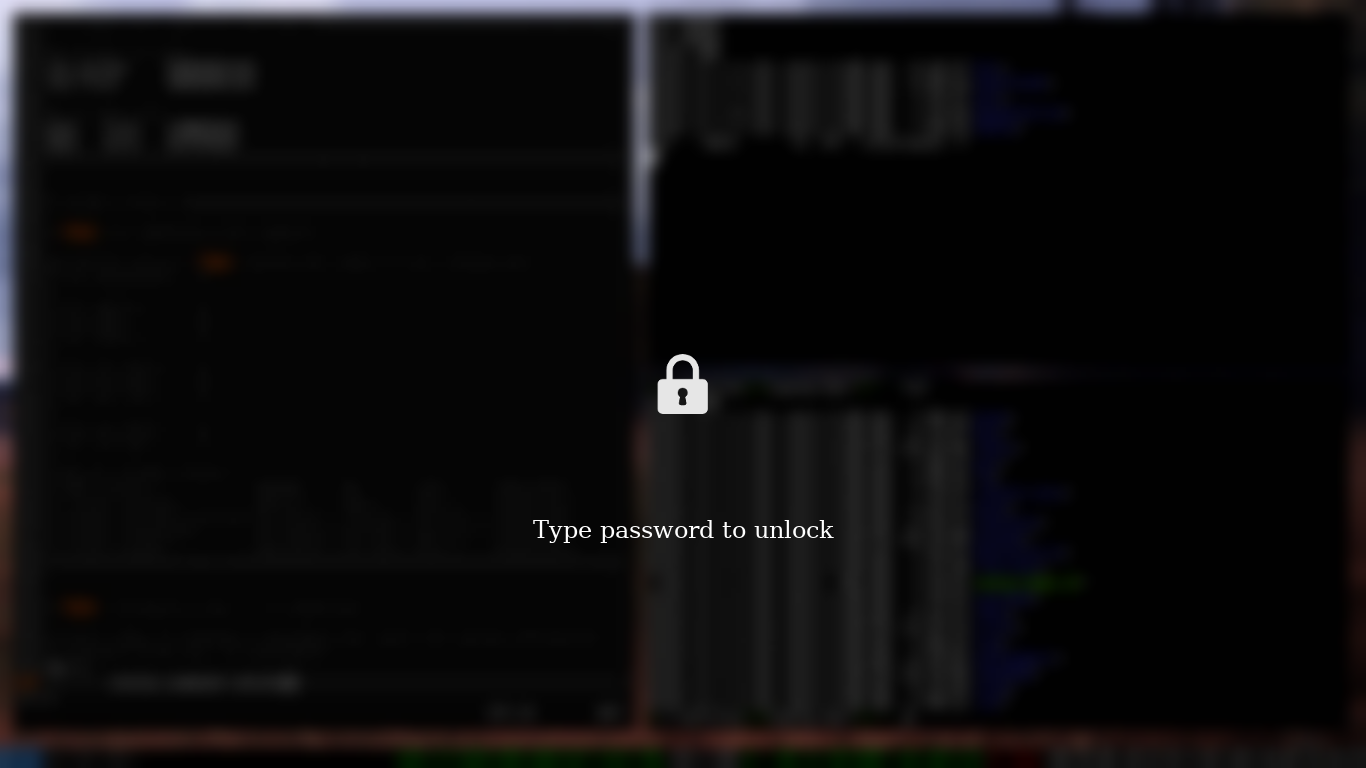
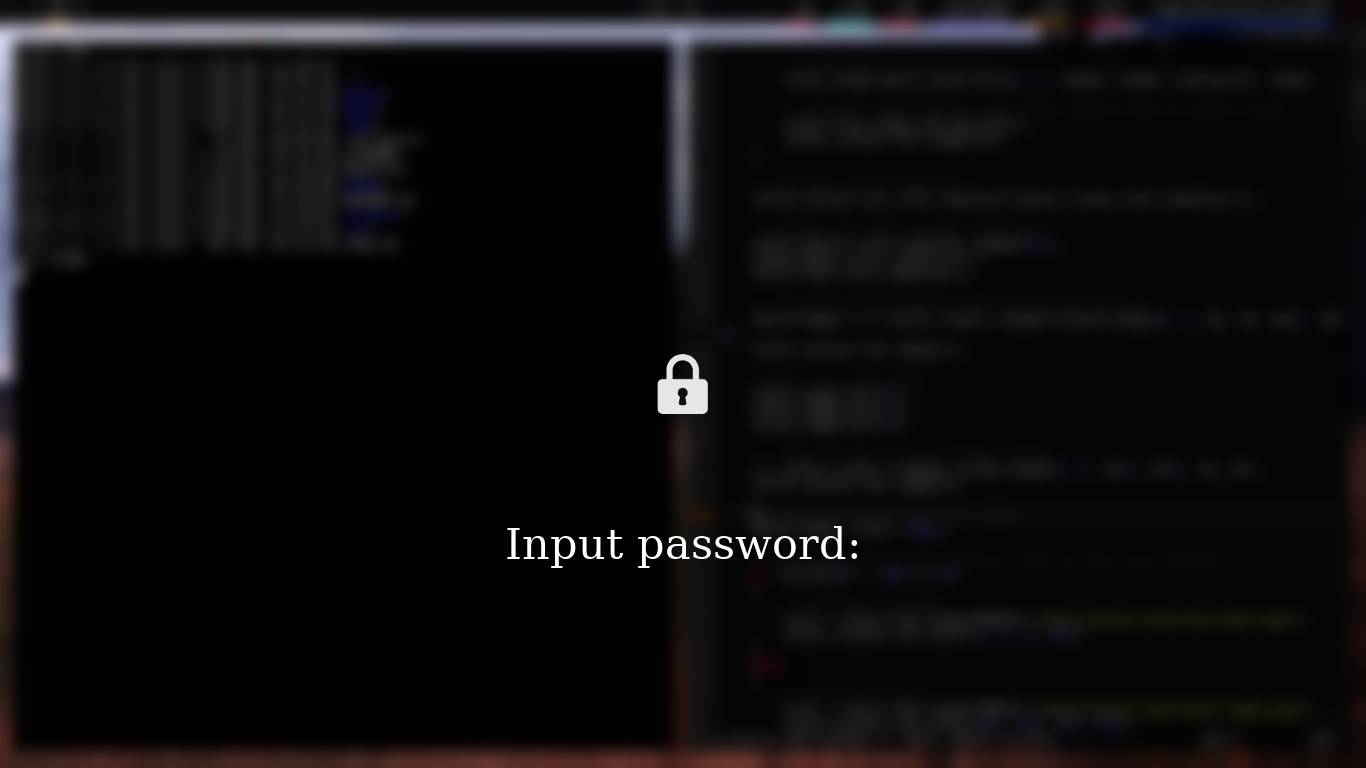
Update README.md and add screenshots
Update README.md to include new functionality and include extra
screenshots demonstrating i3lock-next usage with both the default and
a custom prompt.

diff --git a/README.md b/README.md
@@ -25,7 +25,7 @@ $ make
 $ make install
 ```
 
-To use a custom prefix:
+To use a custom prefix for the installation directory:
 
 ```
 $ make install PREFIX=/your/custom/prefix
@@ -34,30 +34,32 @@ $ make install PREFIX=/your/custom/prefix
 ## Usage
 
 ```
-i3lock-next [-h|--help] [font] [size]
+i3lock-next [-h|--help] [prompt] [font] [size]
 
 Options:
     -h, --help  Display this help text.
 
-    font        Font to to use, default Sans.
+	prompt      Prompt string to display, default is none.
 
-    size        Size of font, default 18.
+    font        Font to to use, default is Sans.
+
+    size        Size of font, default is 18.
 ```
 
-### Example:
+### Examples
 
-##### Custom Font:
+**Custom Font and Prompt:**
 
 ```
-$ i3lock-next "DejaVu Serif" 18
+$ i3lock-next "DejaVu Sans Mono" 24 "Input password"
 ```
 
-![screenshot: custom font](media/screenshot-custom_font.png)
+![screenshot: custom font and prompt](media/screenshot-custom.png)
 
-##### Default Font:
+**Default Prompt (None):**
 
 ```
 $ i3lock-next
 ```
 
-![screenshot: default font](media/screenshot-main.png)
+![screenshot: default font](media/screenshot-default.png)
